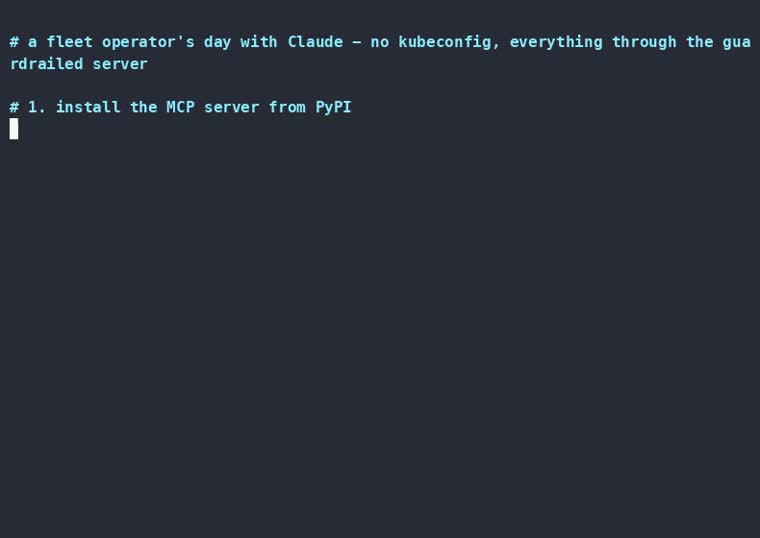
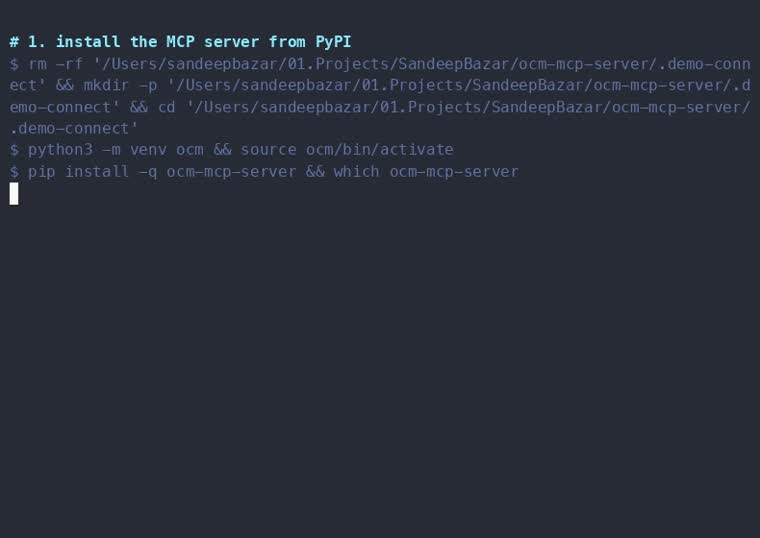
Publish the documentation site
Built from ocm-mcp-server@4fd956bdd7997eb1a1edcf7c30be95ef4ce2b11e.

Changed region(s): [[0.0, 0.0595, 0.9987, 0.3866]]

diff --git a/journey/how-it-works/index.html b/journey/how-it-works/index.html
@@ -237,7 +237,7 @@ one is covered by the others. Details in
     <source src="https://raw.githubusercontent.com/ocm-mcp-server/ocm-mcp-server/main/demo/connect-claude.mp4" type="video/mp4">
     <a href="https://raw.githubusercontent.com/ocm-mcp-server/ocm-mcp-server/main/demo/connect-claude.gif">Watch the recording</a>
   </video>
-  <figcaption>A fleet operator's day, recorded live: the privileged <code>:latest</code> shortcut is <b>refused</b>, the pinned proposal is <b>signed by a human</b>, applied with the token, verified, and the day read back from the audit trail.</figcaption>
+  <figcaption>A fleet operator's day, recorded live: the privileged <code>:latest</code> shortcut is <b>refused</b>, the pinned proposal is <b>signed by a human</b>, applied with the token, verified, and the day read back from the audit trail. The identical session is also recorded against <a href="https://raw.githubusercontent.com/ocm-mcp-server/ocm-mcp-server/main/demo/connect-codex.gif">Codex</a> and <a href="https://raw.githubusercontent.com/ocm-mcp-server/ocm-mcp-server/main/demo/connect-agy.gif">Gemini</a> - same server, same fleet, only the agent changes.</figcaption>
 </figure>
 <h2 id="why-approval-is-a-token-not-a-chat-yes">Why approval is a token, not a chat &quot;yes&quot; <a class="header-anchor" href="#why-approval-is-a-token-not-a-chat-yes">#</a></h2>
 <p>A &quot;yes&quot; in chat approves a conversation. The token approves <em>content</em>. It is an

diff --git a/index.html b/index.html
@@ -198,10 +198,12 @@
       <source src="https://raw.githubusercontent.com/ocm-mcp-server/ocm-mcp-server/main/demo/connect-claude.mp4" type="video/mp4">
       <a href="https://raw.githubusercontent.com/ocm-mcp-server/ocm-mcp-server/main/demo/connect-claude.gif">Watch the recording</a>
     </video>
-    <figcaption>Every answer is the model's own, over the real MCP protocol.
-      The same ten chapters run against
-      <a href="https://github.com/ocm-mcp-server/ocm-mcp-server/blob/main/demo/connect-codex.gif">Codex</a>
-      too - the agent is interchangeable, which is the point of speaking MCP.</figcaption>
+    <figcaption>Every answer is the model's own, over the real MCP protocol. The same ten
+      chapters are recorded against
+      <a href="https://raw.githubusercontent.com/ocm-mcp-server/ocm-mcp-server/main/demo/connect-codex.gif">Codex</a>
+      and
+      <a href="https://raw.githubusercontent.com/ocm-mcp-server/ocm-mcp-server/main/demo/connect-agy.gif">Gemini</a>
+      as well - same server, same fleet, only the agent changes.</figcaption>
   </figure>
 </section>
 
